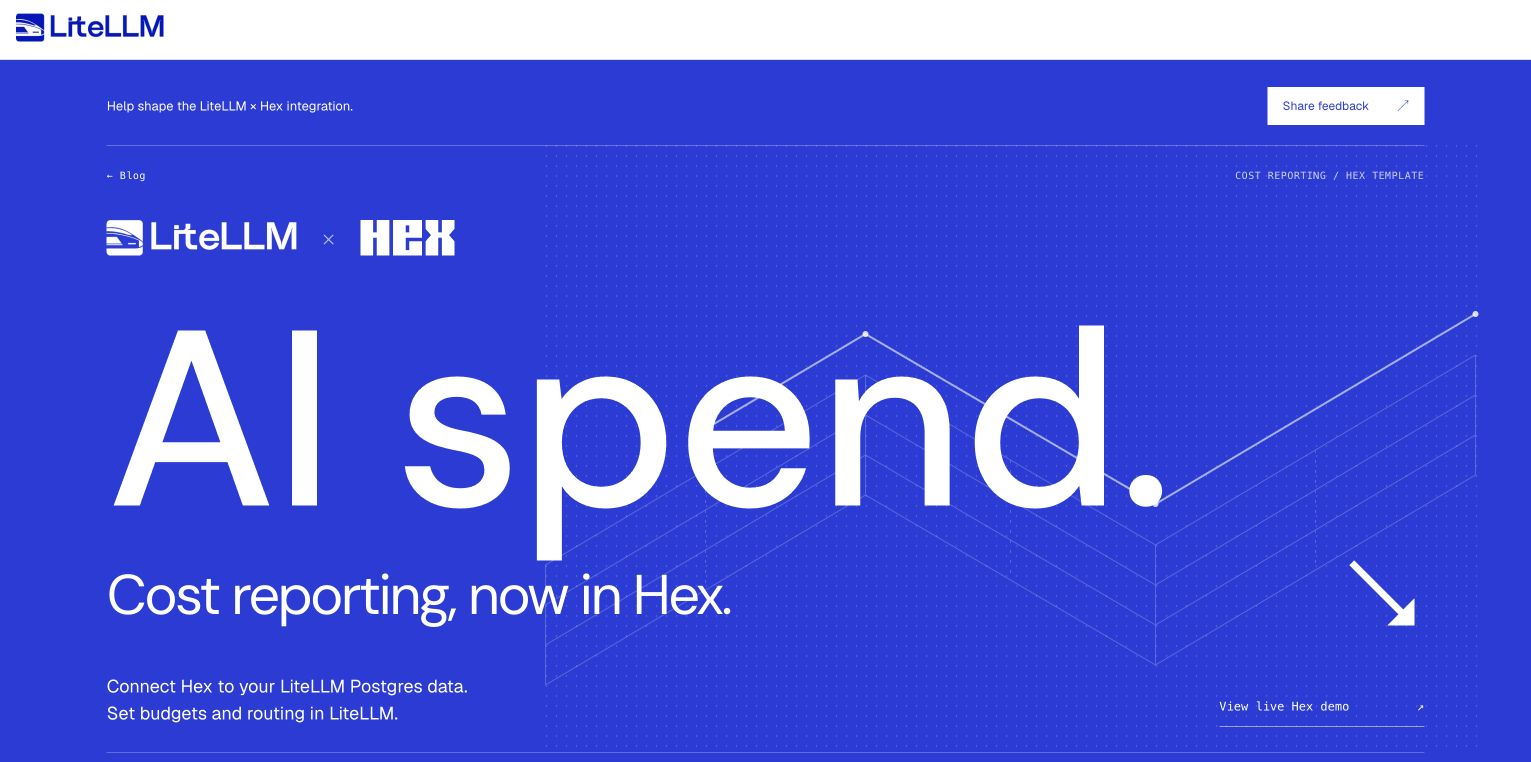
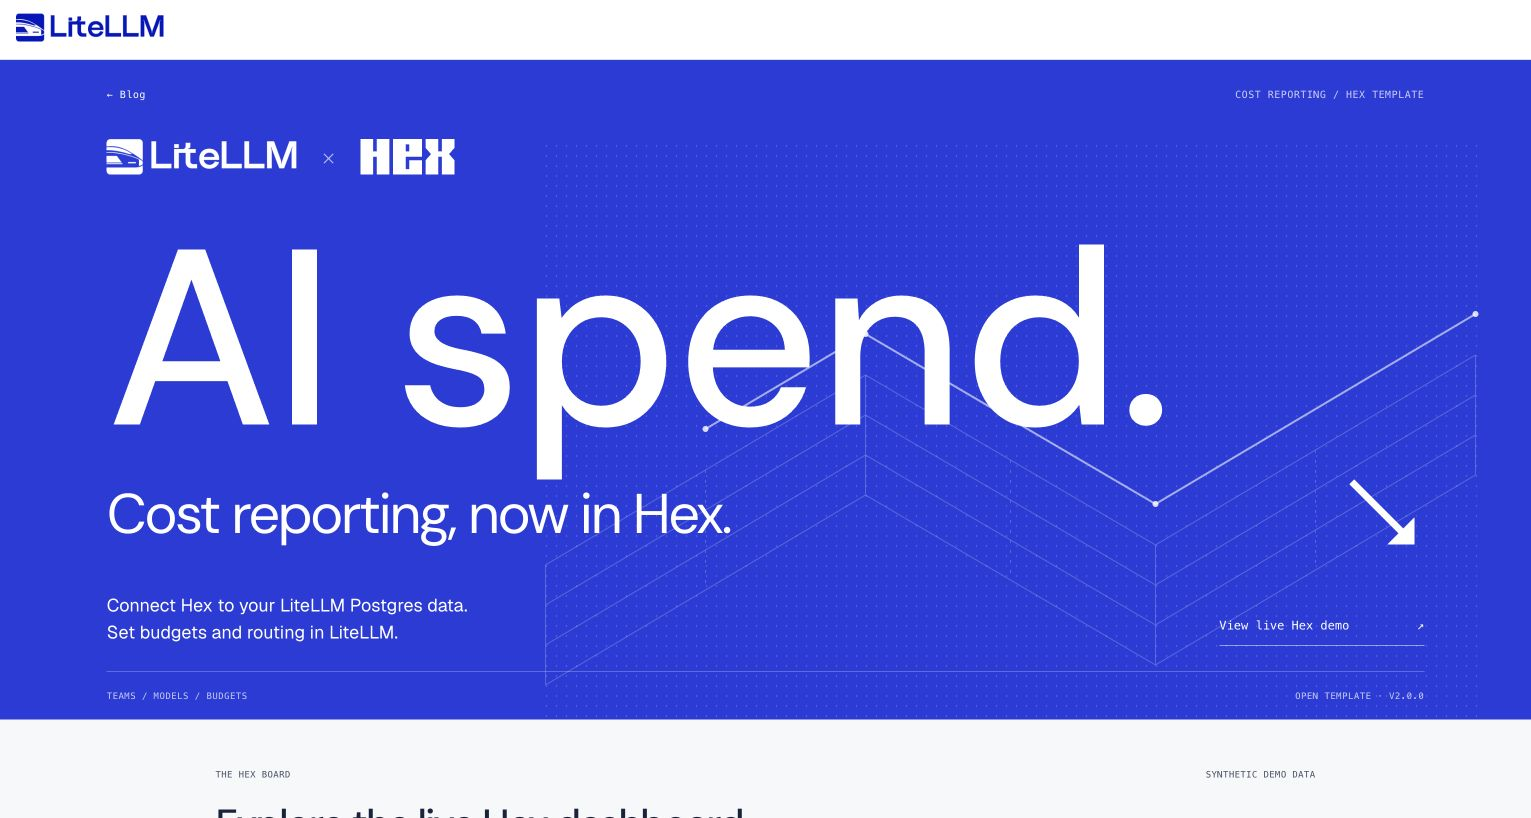
docs: remove Hex feedback calls to action

diff --git a/blog/hex-litellm-roi/diagrams.jsx b/blog/hex-litellm-roi/diagrams.jsx
@@ -4,7 +4,6 @@ import {PostByline} from '@theme/BlogPostPage';
 import styles from './launch.module.css';
 
 const liveDemoUrl = 'https://app.hex.tech/01a18e4b-6e94-7328-831c-e5ab0e2e00e7/app/LiteLLM-AI-cost-and-ROI-demo-034p688gOAllaldLw72Oat/latest';
-const feedbackUrl = 'https://docs.google.com/forms/d/e/1FAIpQLSdySd34qAyNpGU3bzeYS-BSSkyIspDcXaLVsVqyWJPSdE4LfQ/viewform';
 
 function ReportingArtwork() {
   return <svg className={styles.art} viewBox="0 0 1440 640" fill="none" aria-hidden="true">
@@ -24,7 +23,6 @@ export function HexPage({children}) {
   return <div className={styles.root} data-full-width>
     <header className={styles.hero}>
       <div className={styles.heroInner}>
-        <div className={styles.feedbackBar}><span>Help shape the LiteLLM × Hex integration.</span><a href={feedbackUrl}>Share feedback <span aria-hidden="true">↗</span></a></div>
         <div className={styles.heroMeta}><Link to="/blog">← Blog</Link><span>COST REPORTING / HEX TEMPLATE</span></div>
         <div className={styles.brands}><img src="/img/brand/litellm-logo-white.png" alt="LiteLLM" width="150" height="36"/><span aria-hidden="true">×</span><img src="/img/hex/hex-logo.svg" alt="Hex" width="94" height="36"/></div>
         <ReportingArtwork />

diff --git a/blog/hex-litellm-roi/launch.module.css b/blog/hex-litellm-roi/launch.module.css
@@ -110,8 +110,6 @@
   .downloads a + a { border-left: 0; border-top: 1px solid var(--line); }
 }
 
-.feedbackBar { display: flex; align-items: center; justify-content: space-between; gap: 20px; padding-bottom: 20px; margin-bottom: 22px; border-bottom: 1px solid #ffffff45; font-size: 13px; line-height: 1.5; }
-.feedbackBar a { color: #263cdb; background: #fff; padding: 10px 15px; display: flex; gap: 28px; align-items: center; font-size: 12px; white-space: nowrap; }
 .showcase { max-width: 1180px; margin: 0 auto; padding: 48px 40px 24px; }
 .showcaseLabel, .flowTitle { display: flex; justify-content: space-between; gap: 20px; color: var(--text); font: 9px/1.6 'Geist Mono', monospace; letter-spacing: .04em; }
 .root .showcase h2 { font-size: 40px; font-weight: 450; letter-spacing: -.045em; line-height: 1.2; margin: 18px 0 28px; color: var(--ink); }
@@ -159,9 +157,6 @@
   .flowTitle { font-size: 8px; }
 }
 @container (max-width: 480px) {
-  .feedbackBar { align-items: flex-start; font-size: 12px; }
-  .feedbackBar a { font-size: 10px; gap: 10px; padding: 9px; }
-  .feedbackBar > span { max-width: 180px; }
   .showcase { padding-top: 30px; }
   .showcaseLabel { font-size: 8px; }
   .root .costDemo h3 { font-size: 23px; }

diff --git a/blog/hex-litellm-roi/index.md b/blog/hex-litellm-roi/index.md
@@ -60,7 +60,7 @@ After saving, check the team's budget status. Then refresh Hex after LiteLLM upd
 
 ![Legal’s budget status after saving](/img/hex/litellm-budget-saved.png)
 
-[Auto Router setup](/docs/auto_router/setup) · [Team budgets](/docs/proxy/team_budgets) · [Share feedback](https://docs.google.com/forms/d/e/1FAIpQLSdySd34qAyNpGU3bzeYS-BSSkyIspDcXaLVsVqyWJPSdE4LfQ/viewform)
+[Auto Router setup](/docs/auto_router/setup) · [Team budgets](/docs/proxy/team_budgets)
 
 </HexPage>
 
